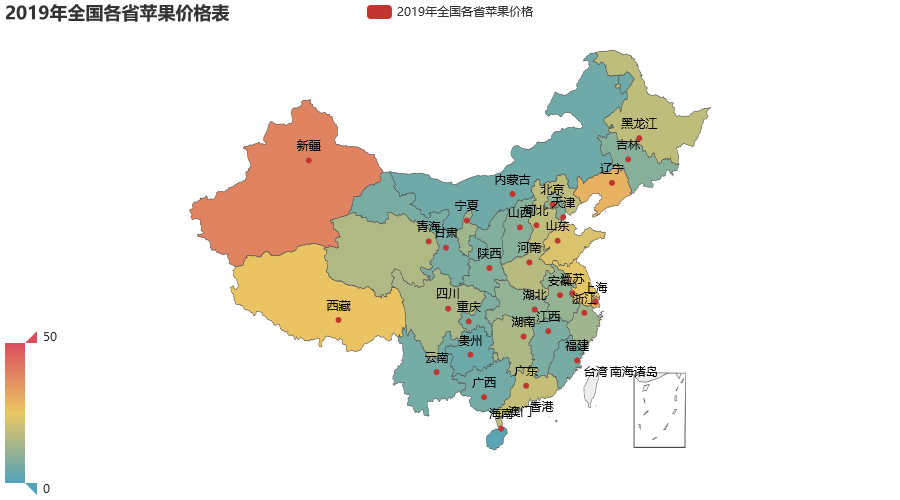
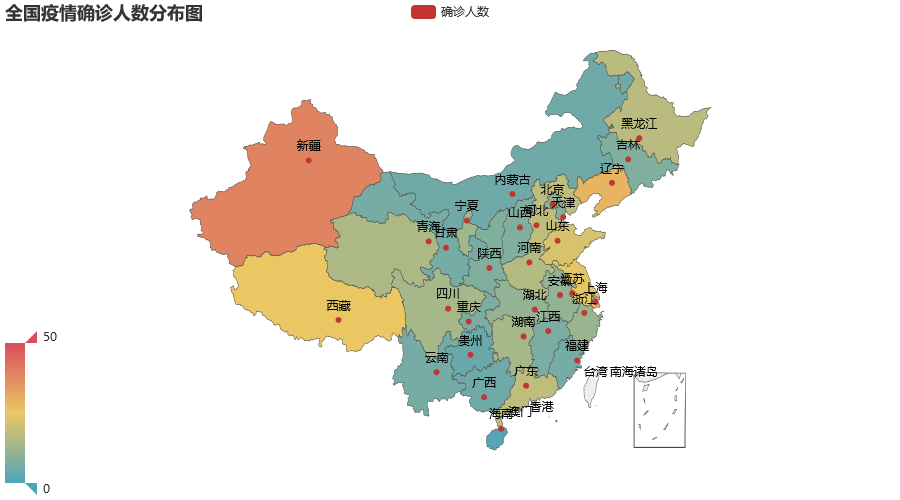
modify readme.md

Changed region(s): [[0.0, 0.0, 0.2489, 0.06], [0.4044, 0.0, 0.5911, 0.06]]

diff --git a/readme.md b/readme.md
@@ -1,8 +1,11 @@
 ## 本文主要内容
 
 - 目前困境
+- 使用说明
 - 使用pyecharts搭建中国疫情地图
+- 肺炎实时追踪页面制作
 - 后续开发
+- 参考资料
 
 ## 困难
 
@@ -54,14 +57,14 @@ from pyecharts.charts import Map
 from pyecharts import options as opts
 #将数据处理成列表
 locate = ['北京','天津','河北','山西','内蒙古','辽宁','吉林','黑龙江','上海','江苏','浙江','安徽','福建','江西','山东','河南','湖北','湖南','广东','广西','海南','重庆','四川','贵州','云南','陕西','甘肃','青海','宁夏','新疆','西藏']
-app_price = [10.84,8.65,18.06,8.90,5.04,29.20,8.98,17.80,27.81,24.24,12.72,11.10,6.30,7.00,22.45,16.92,11.00,14.99,18.85,5.85,1.40,7.32,14.61,4.62,6.05,8.07,6.73,15.54,13.00,39.07,25.61,21.3]
-list1 = [[locate[i],app_price[i]] for i in range(len(locate))]
+popu = [10,8,18,8,5,29,8,17,27,24,12,11,6,7,22,16,11,14,18,5,1,7,14,4,6,8,6,15,13,39,25,21]
+list1 = [[locate[i],popu[i]] for i in range(len(locate))]
 map_1 = Map()
 map_1.set_global_opts(
-    title_opts=opts.TitleOpts(title="2019年全国各省苹果价格表"),
+    title_opts=opts.TitleOpts(title="全国疫情确诊人数分布图"),
     visualmap_opts=opts.VisualMapOpts(max_=50)  #最大数据范围
     )
-map_1.add("2019年全国各省苹果价格", list1, maptype="china")
+map_1.add("确诊人数", list1, maptype="china")
 map_1.render('map1.html')
 ```
 
@@ -102,7 +105,7 @@ map_1.render('map1.html')
 - [python绘制中国地图](https://zhuanlan.zhihu.com/p/45202403)
 - [pyecharts官网](http://pyecharts.org/#/)
 - [pyecharts效果图展示](http://pyecharts.herokuapp.com/)
-- [python制作疫情实时分布图](https://www.zhihu.com/people/ji-jin-51-37)
+- [python制作疫情实时分布图](https://zhuanlan.zhihu.com/p/105840267)
 - [数据可视化：使用pyecharts制作疫情地图——进击的小梓](https://zhuanlan.zhihu.com/p/105001857?utm_source=wechatMessage_article_bottom)
 - [（源代码）用Python制作疫情的实时数据地图（PS：全国以及每个省）——刘凤飞](https://zhuanlan.zhihu.com/p/105072241)
 - 疫情数据来自腾讯数据接口
